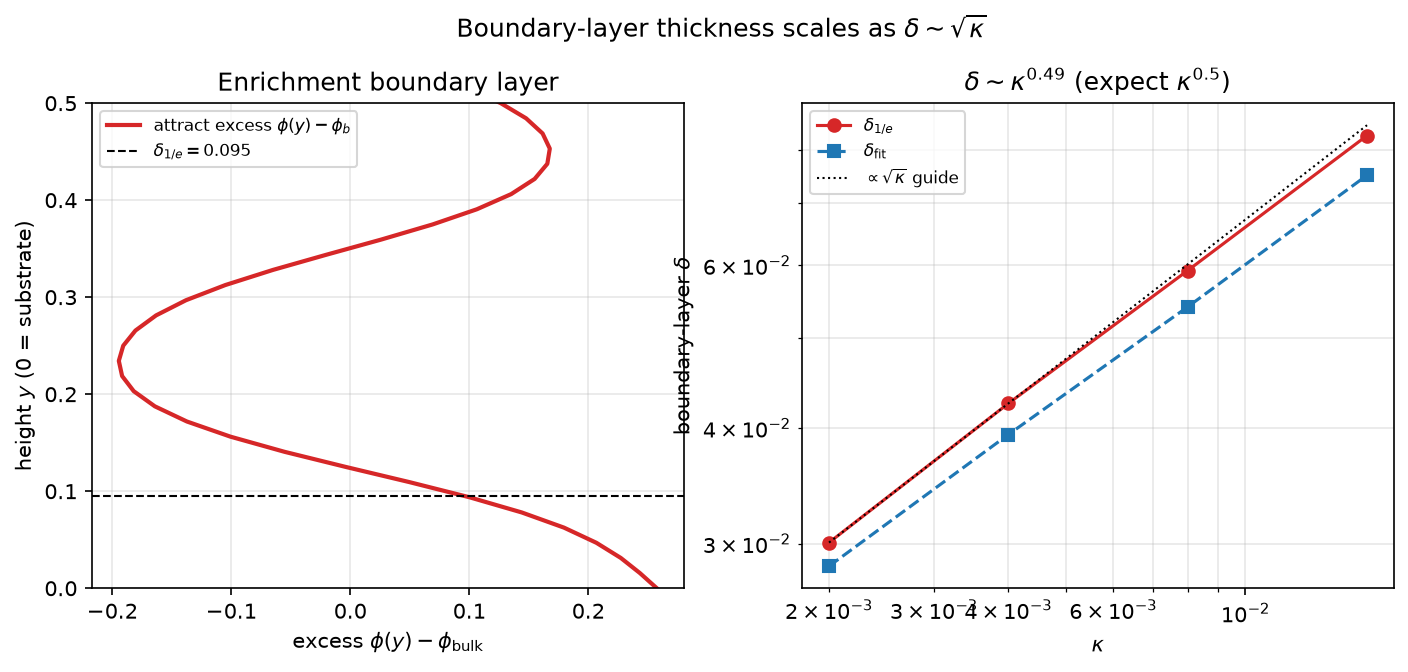
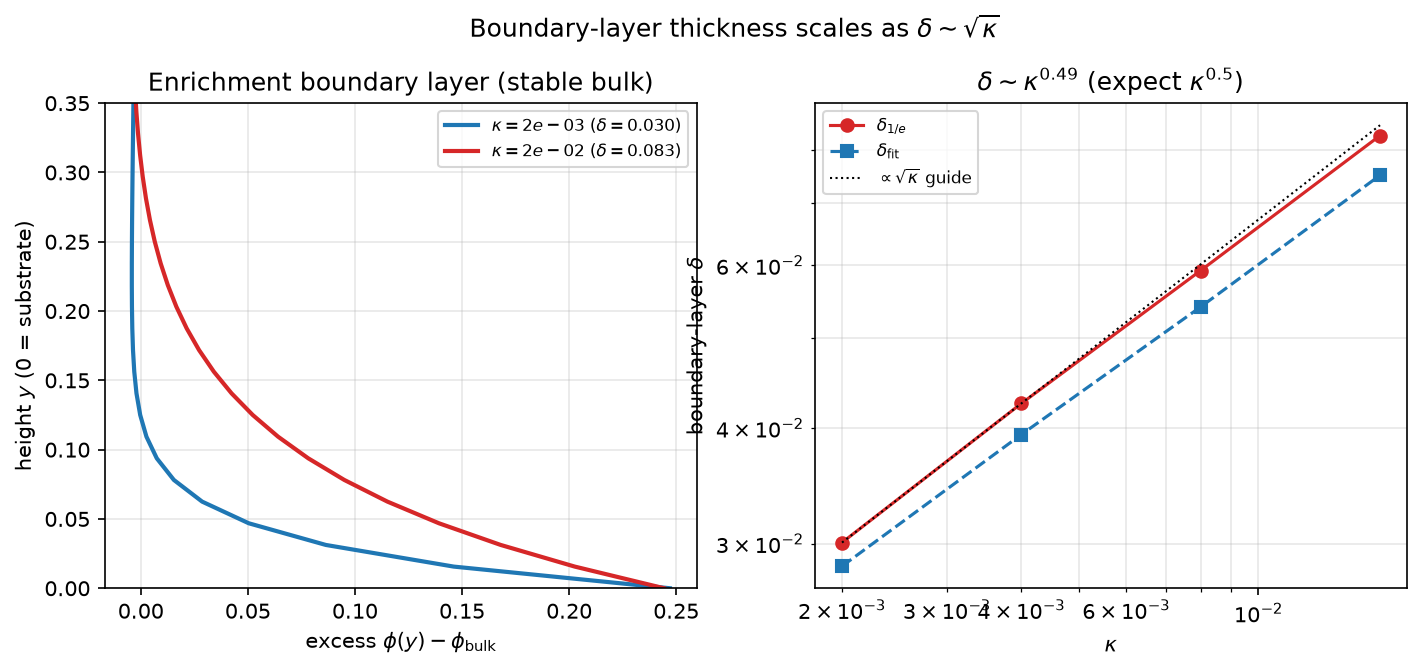
P3 fixup: sync numbers/p3.tex + p3_bdlayer.png with the chapter's boundary-layer macros
The P3 commit (f9d205a) captured an intermediate numbers/p3.tex (still had
\PthreeAttractDelta) while the chapter p3.tex already used the final
boundary-layer macros \PthreeBdKappaLo/Hi and \PthreeBdDeltaLo/Hi. This commits
the regenerated numbers/p3.tex (delta from 0.030 at kappa 2e-3 to 0.083 at
1.6e-2) and the refined p3_bdlayer.png so the chapter's macros are all defined
(LaTeX build consistent). Verified: no undefined macros, no bare \times.

diff --git a/tutorials/orgelmorph-course/latex/numbers/p3.tex b/tutorials/orgelmorph-course/latex/numbers/p3.tex
@@ -21,7 +21,10 @@
 \newcommand{\PthreeMassdrift}{\ensuremath{<10^{-13}} (machine)}
 \newcommand{\PthreeMaxprojdof}{0}
 \newcommand{\PthreeDemixProjdof}{16}
-\newcommand{\PthreeAttractDelta}{\ensuremath{0.0954}}
+\newcommand{\PthreeBdKappaLo}{0.002}
+\newcommand{\PthreeBdDeltaLo}{\ensuremath{0.030}}
+\newcommand{\PthreeBdKappaHi}{0.016}
+\newcommand{\PthreeBdDeltaHi}{\ensuremath{0.083}}
 \newcommand{\PthreeDeltaSlope}{\ensuremath{0.49}}
 \newcommand{\PthreeDeltaSlopeFit}{\ensuremath{0.47}}
 \newcommand{\PthreeClipAmp}{0.3}
